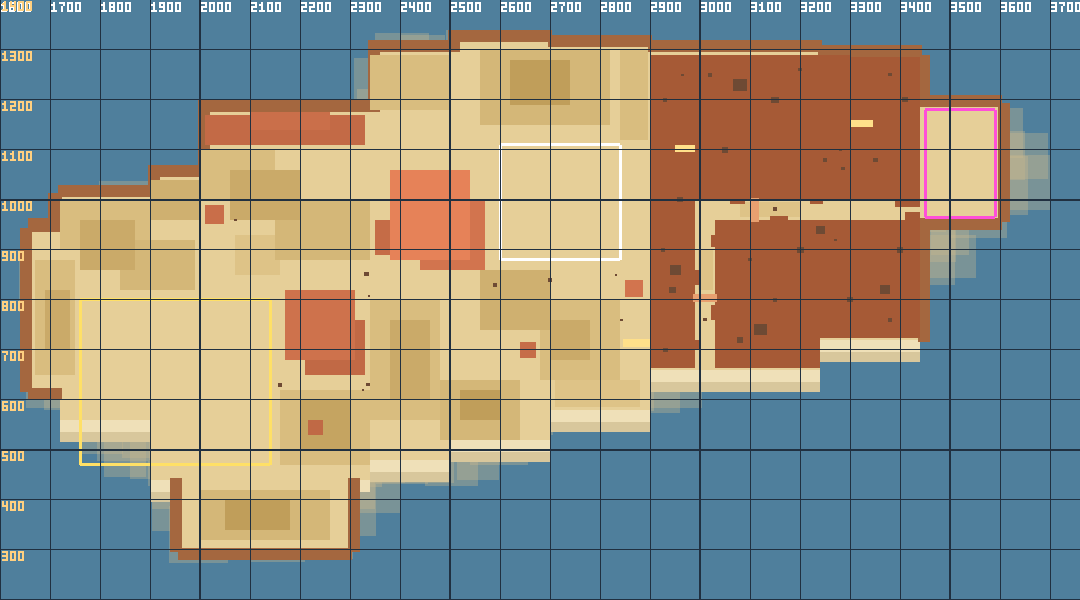
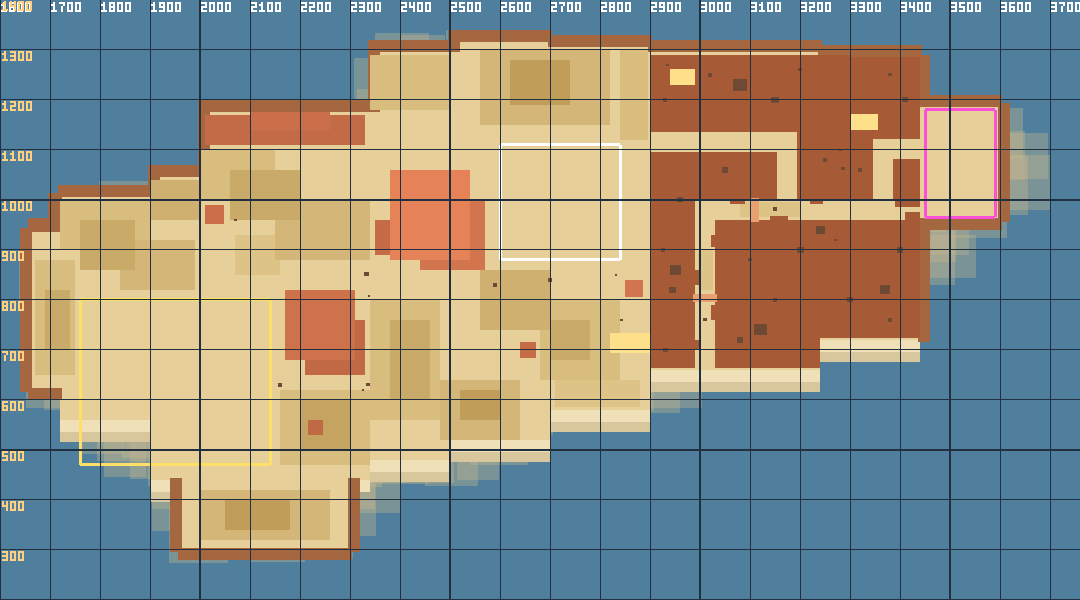
사막 협곡 가지 둘(서쪽 들판 어귀·히든 분지 둘째 어귀), 협곡 벽 지층 띠·기둥·돌무더기, 오르막을 들쭉날쭉한 바위 턱 비탈로. 평원도: 풀 쐐기 10곳 → 풀 바위 턱(Plains_RampSteps), 높은 덩어리 벽 꾸밈(Plains_WallDetail)

diff --git a/tools/desert_plan.py b/tools/desert_plan.py
@@ -89,22 +89,31 @@ MESAS = [
 CANYON = [
     # 2026-10-04 2판(사용자): 협곡 끝을 북쪽 벼랑 대신 동쪽 끝 곶(튀어나온 땅)으로 꺾어 그 안을 히든 분지로.
     # 협곡 길: 남쪽 해변(x 2990~3030) → 북으로(z -960) → 동으로(z -1000~-960) 곶까지, 곶 어귀는 좁은 틈
-    (2900, 2990, -1290, -664, 30),   # 서쪽 벽(T1)
+    # 2026-10-04 3판(사용자 그림): 북쪽 탁상지에 협곡 둘 더
+    #   가지 A·B: 서쪽 들판(x 2900, z -1135~-1095) → 동으로 x 3194 → 남으로 내려와 동서 협곡(x 3154~3194)에 붙음
+    #   가지 C·D: 동서 협곡(x 3345~3385) → 북으로 z -1122 → 동으로 곶 히든 분지(x 3440)까지(분지 둘째 어귀)
+    (2900, 2990, -1095, -664, 30),   # 서쪽 벽 남(T1s)
+    (2900, 2990, -1290, -1135, 32),  # 서쪽 벽 북(T1n)
     (3030, 3240, -960, -664, 36),    # 남쪽 가운데(T2a)
     (3240, 3440, -960, -724, 40),    # 남동(T2b)
-    (2990, 3300, -1290, -1000, 42),  # 북쪽 가운데(T3)
-    (3300, 3440, -1286, -1000, 34),  # 북동(T4)
-    # 협곡 벽 돌출(복도처럼 안 보이게)
+    (2990, 3300, -1290, -1135, 42),  # 북쪽 가운데 북(T3n)
+    (2990, 3154, -1095, -1000, 40),  # 북쪽 가운데 서(T3w)
+    (3194, 3300, -1135, -1000, 46),  # 북쪽 가운데 동(T3m)
+    (3300, 3440, -1286, -1122, 34),  # 북동 북(T4n)
+    (3300, 3345, -1122, -1000, 36),  # 북동 서(T4w)
+    (3385, 3440, -1082, -1000, 38),  # 북동 동(T4e)
+    # 협곡 벽 돌출(복도처럼 안 보이게) — 이 줄 아래가 돌출(검사가 CANYON_MAIN 뒤를 돌출로 본다)
     (2990, 2998, -720, -700, 22), (3022, 3030, -790, -760, 30), (2990, 2999, -860, -830, 16), (3021, 3030, -930, -905, 26),
     (3060, 3090, -1000, -992, 28), (3140, 3175, -968, -960, 20), (3220, 3245, -1000, -991, 34),
     # 곶 어귀 좁은 틈(엇갈린 두 바위 — 사이 10)
     (3390, 3440, -1000, -985, 30), (3410, 3440, -975, -960, 26),
 ]
+CANYON_MAIN = 10  # 위 판 개수(돌출 앞)
 # 오르막(탁상지 위를 걸어 다니게): { x0, x1, z0, z1, 낮은 높이, 높은 높이, 높은 쪽("+x"·"-x"·"+z"·"-z") }
 RAMPS = [
-    (2845, 2900, -722, -706, 0, 30, "+x"),     # 들판 → 서쪽 벽 위(T1)
-    (2950, 2990, -1110, -1096, 30, 42, "+x"),  # T1 → T3
-    (3300, 3345, -1160, -1146, 34, 42, "-x"),  # T4 → T3
+    (2820, 2900, -734, -694, 0, 30, "+x"),     # 들판 → 서쪽 벽 위(T1) — 넓은 바위 비탈
+    (2940, 2990, -1262, -1230, 32, 42, "+x"),  # T1n → T3n
+    (3300, 3355, -1172, -1140, 34, 42, "-x"),  # T4n → T3n
 ]
 # 자연 돌다리(협곡 위를 건넘): { x0, x1, z0, z1, 윗면 높이 } — 두께 5
 BRIDGES = [
@@ -116,8 +125,8 @@ TOP_PATCHES = [
     (2905, 2960, -1000, -900, 3, "모래"), (2910, 2985, -1250, -1150, 4, "모래"), (2915, 2975, -660 - 60, -664 - 8, 0, "없음"),
     (3060, 3180, -900, -820, 3, "모래"), (3150, 3230, -760, -690, 8, "바위"),
     (3260, 3400, -860, -780, 4, "모래"), (3330, 3420, -950, -900, 10, "바위"),
-    (3020, 3140, -1180, -1060, 4, "모래"), (3180, 3280, -1250, -1150, 12, "바위"), (3160, 3260, -1080, -1020, 3, "모래"),
-    (3360, 3430, -1150, -1060, 9, "바위"),
+    (3020, 3140, -1280, -1150, 4, "모래"), (3180, 3280, -1250, -1150, 12, "바위"), (3200, 3290, -1120, -1020, 3, "모래"),
+    (3310, 3430, -1270, -1180, 9, "바위"),
 ]
 TOP_PATCHES = [t for t in TOP_PATCHES if t[5] != "없음"]
 # 히든 분지(곶 안쪽, 높은 벼랑에 둘러싸임) — 숨은 제단 자리
@@ -155,11 +164,11 @@ ROCKS = [
     (3240, -940, 18, 12, 16, 45),
     # 탁상지 위 돌덩이·바위턱(2026-10-04 사용자: 협곡 위도 꾸미기)
     (2930, -700, 10, 7, 9, 0), (2945, -820, 14, 9, 12, 30), (2925, -900, 8, 5, 7, 15), (2960, -1000, 12, 8, 10, 45),
-    (2930, -1200, 9, 6, 8, 0), (2965, -1250, 6, 4, 5, 30),
+    (2930, -1200, 9, 6, 8, 0), (2935, -1270, 6, 4, 5, 30),
     (3080, -720, 12, 10, 11, 0), (3150, -800, 9, 6, 8, 15), (3200, -900, 14, 8, 12, 45), (3100, -880, 7, 5, 6, 0),
     (3300, -800, 11, 8, 10, 30), (3380, -760, 8, 6, 7, 0), (3400, -900, 13, 9, 11, 15), (3270, -920, 6, 4, 5, 45),
-    (3050, -1100, 12, 9, 11, 0), (3150, -1200, 15, 10, 13, 30), (3250, -1080, 9, 6, 8, 15), (3020, -1250, 8, 6, 7, 45),
-    (3200, -1260, 7, 5, 6, 0), (3350, -1080, 10, 7, 9, 30), (3410, -1200, 12, 8, 10, 0), (3380, -1250, 7, 5, 6, 15),
+    (3050, -1060, 12, 9, 11, 0), (3150, -1200, 15, 10, 13, 30), (3250, -1080, 9, 6, 8, 15), (3020, -1250, 8, 6, 7, 45),
+    (3200, -1260, 7, 5, 6, 0), (3320, -1060, 8, 7, 8, 30), (3410, -1200, 12, 8, 10, 0), (3380, -1250, 7, 5, 6, 15),
 ]
 
 
@@ -184,7 +193,7 @@ def box(r):
 def check():
     probs = []
     rocks_big = [rect(m) for m in MESAS] + [box(c) for c in CANYON]
-    no_rock = [rect(m) for m in MESAS] + [box(c) for c in CANYON[5:]] + [box(r) for r in RAMPS] + [box(b) for b in BRIDGES]
+    no_rock = [rect(m) for m in MESAS] + [box(c) for c in CANYON[CANYON_MAIN:]] + [box(r) for r in RAMPS] + [box(b) for b in BRIDGES]
     dunes = [(box(d), d[4]) for d in DUNES]
     sites = [("신전 자리", (TEMPLE_SITE[0], TEMPLE_SITE[2], TEMPLE_SITE[1], TEMPLE_SITE[3])),
              ("마을 자리", (TOWN_SITE[0], TOWN_SITE[2], TOWN_SITE[1], TOWN_SITE[3]))]
@@ -278,7 +287,7 @@ def lua(v):
 
 
 def emit(path):
-    out = ["-- desert_plan.py 가 만든 데이터(손으로 고치지 말고 표를 고칠 것)", "local TOP = %s" % TOP]
+    out = ["-- desert_plan.py 가 만든 데이터(손으로 고치지 말고 표를 고칠 것)", "local TOP = %s" % TOP, "local CANYON_MAIN = %d" % CANYON_MAIN]
     for name, rows in (("LAND", LAND), ("CLIFFS", CLIFFS), ("SHORE", SHORE), ("MESAS", MESAS), ("CANYON", CANYON), ("RAMPS", RAMPS),
                        ("BRIDGES", BRIDGES), ("DUNES", DUNES), ("ROCKS", ROCKS), ("TOP_PATCHES", TOP_PATCHES), ("HIDDEN", [HIDDEN_SITE])):
         out.append("local %s = {" % name)
